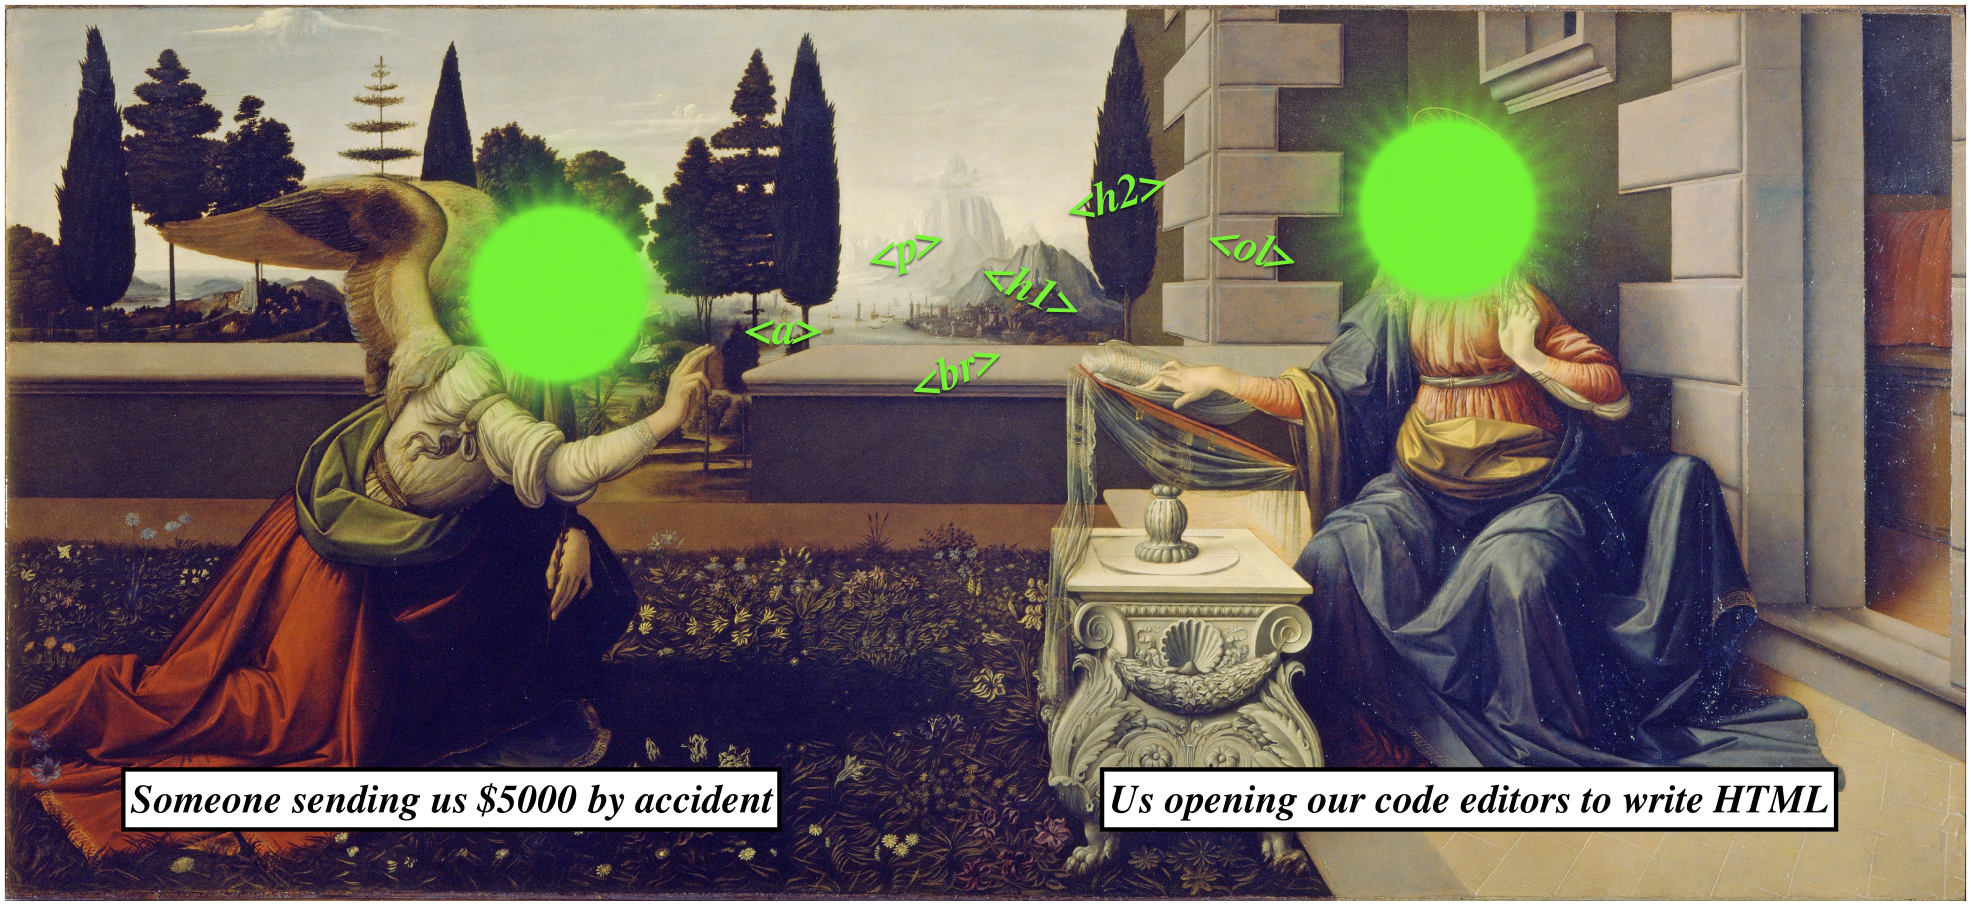
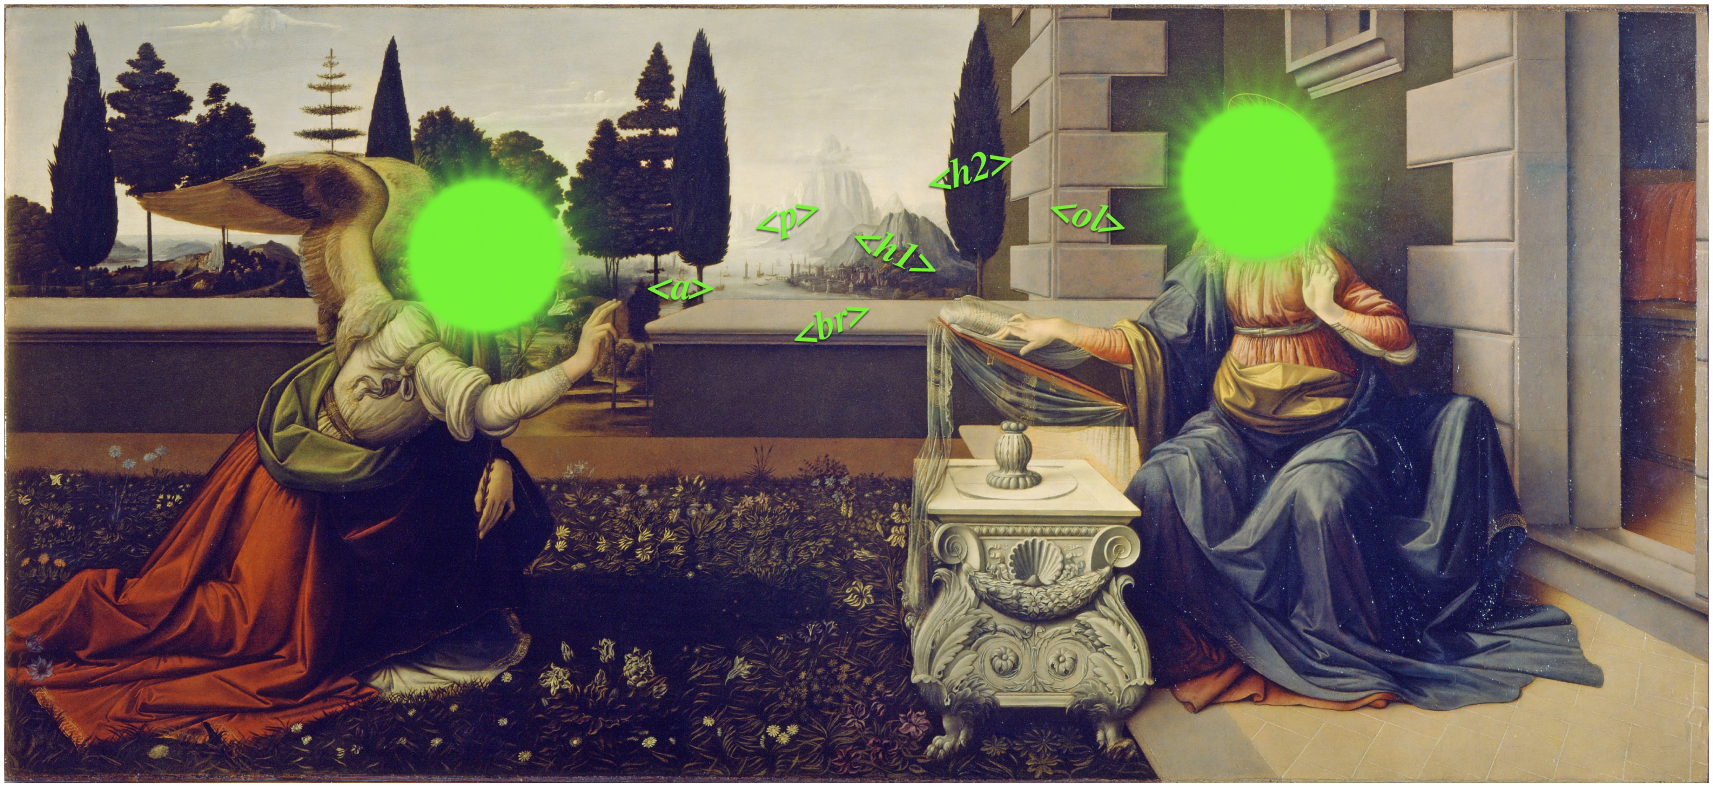
merge

diff --git a/pages/do-angels-exist/index.html b/pages/do-angels-exist/index.html
@@ -63,6 +63,19 @@
             width: 50px;
             position: fixed;
         }
+        .message {
+            padding: 10px 15px;
+            margin: 5px;
+            border-radius: 18px;
+            font-family: "Helvetica Neue", Arial, sans-serif;
+            font-size: 30px;
+            line-height: 1.5;
+            box-shadow: 0 1px 1px rgba(0, 0, 0, 0.1);
+            background-color: #e6ecef;
+            max-width: 500px;
+            width: 100%;
+            margin: 0 auto;
+        }
     </style>
 </head>
 <body>
@@ -115,14 +128,18 @@
     
         <p>In the evening, a message arrived...</p>
     
-        <figure class="narrow">
+        <!-- <figure class="narrow">
             <img src="from-angel.png" alt="HELP HELP PLEASE DECLINE MY PAYMENT THE MONTHLY WAS $50 I THOUGHT THE ONE TIME WAS ALSO GOING TO BE $50 PLEASE DECLINE MY PAYMENT">
             <figcaption>A message in all-caps arrives from our angel.</figcaption>
-        </figure>
+        </figure> -->
+
+        <p class="message">
+            HELP HELP PLEASE DECLINE MY PAYMENT...
+        </p>
     
         <p>Alas, it had all been a mistake :(</p>
     
-        <p>Our angel was just a smaller angel who had clicked through the support page a little too fast. Maybe if Stripe had more HTML Energy this wouldn't have happened.</p>
+        <p>Our angel was just a smaller angel who had clicked through the donate page a little too fast. Maybe if Stripe had more HTML Energy this wouldn't have happened.</p>
     
         <p>We promptly refunded our tiny angel and thanked them for their energy, though it saddened us that this was all a mistake.</p>
     
@@ -140,7 +157,7 @@
         </p>
 
         <figure class="wide">
-            <img src="do-angels-exist.jpg" alt="">
+            <img src="do-angels-exist.png" alt="">
         </figure>
     
         <br>
